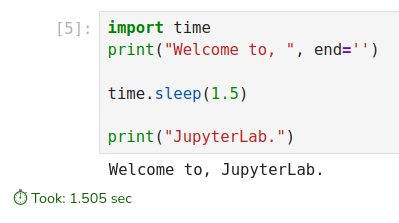
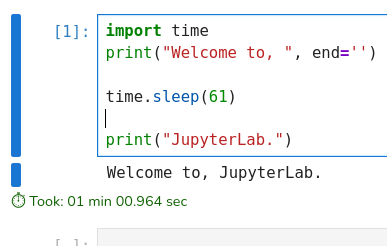
Refined readme, Added hour & minute display

diff --git a/src/index.ts b/src/index.ts
@@ -87,12 +87,31 @@ function attachTimer(cell: Cell): (stop?: boolean) => void {
 
   const start = performance.now();
   const interval = setInterval(() => {
-    const now = performance.now();
-    timerElem.textContent = `⏱ Took: ${((now - start) / 1000).toFixed(3)} sec`;
+    const elapsed = performance.now() - start;
+
+    const ms = Math.floor(elapsed % 1000);
+    const totalSeconds = Math.floor(elapsed / 1000);
+    const s = totalSeconds % 60;
+    const m = Math.floor((totalSeconds / 60) % 60);
+    const h = Math.floor(totalSeconds / 3600);
+
+    const format = (n: number, digits = 2) => n.toString().padStart(digits, '0');
+
+    let display = '';
+    if (h > 0) {
+      display = `${format(h)} hr ${format(m)} min ${format(s)}.${format(ms, 3)} sec`;
+    } else if (m > 0) {
+      display = `${format(m)} min ${format(s)}.${format(ms, 3)} sec`;
+    } else {
+      display = `${s}.${format(ms, 3)} sec`;
+    }
+
+    timerElem.textContent = `⏱ Took: ${display}`;
   }, 100);
 
   return () => clearInterval(interval);
 }
+
 
 
 

diff --git a/README.md b/README.md
@@ -19,6 +19,12 @@ The `jlpm` command is JupyterLab's pinned version of
 ```bash
 # Clone the repo to your local environment
 # Change directory to the 'celler' directory
+
+# Install required packages for jlpm
+jlpm install
+# or
+jlpm add @jupyterlab/application @jupyterlab/notebook @jupyterlab/cells
+
 # Install package in development mode
 pip install -e "."
 # Link your development version of the extension with JupyterLab
